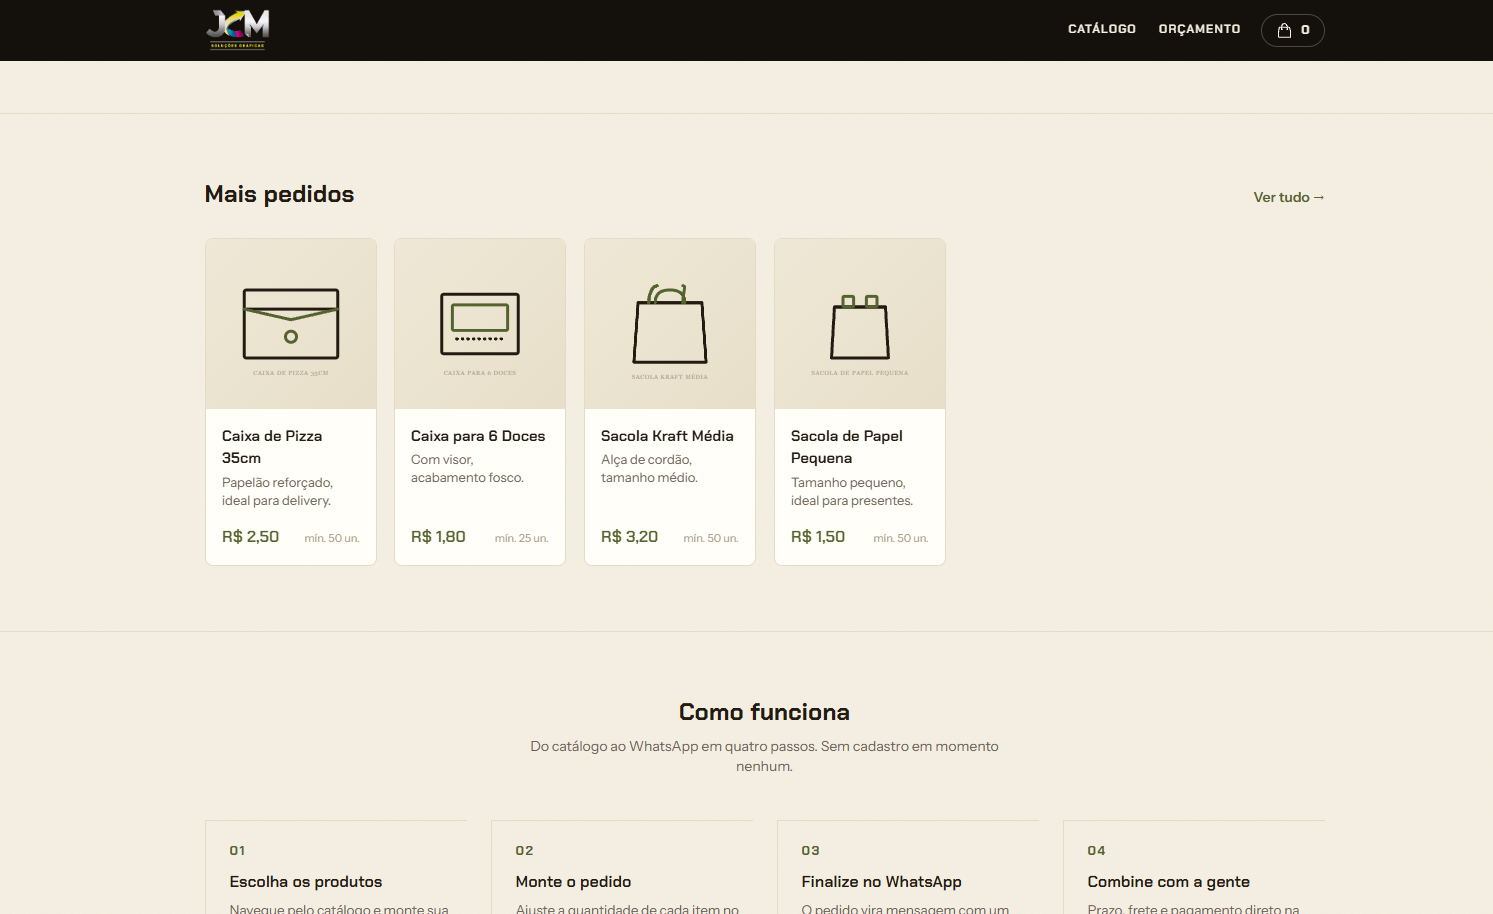
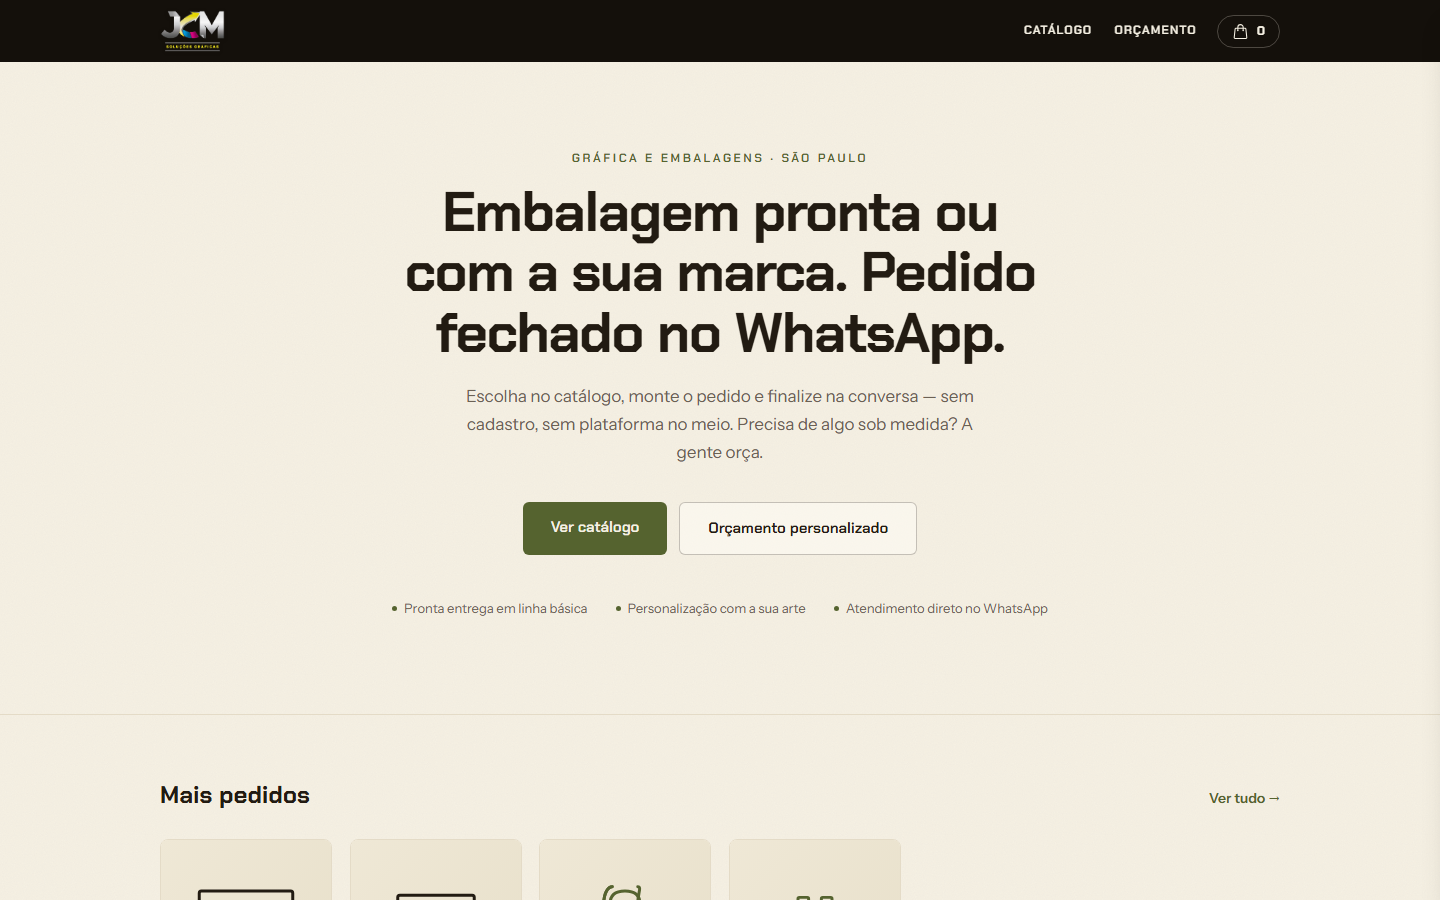
feat(selected-work): troca o Mirante pelo Sizr e corrige o print do JCM
O Mirante era o card mais fraco da lista: demo/template, sem cliente, e o
3D dele nao mostrava nada que o Sizr nao mostre melhor. O Sizr herda o
slot (tambem e three.js + R3F) como produto proprio no ar, com selo PROD.

A copy do Sizr puxa pelo configurador parametrico, pelas faixas de
producao e pelo pedido codificado na URL, nao pelo pedido no WhatsApp --
senao ecoaria com o JCM, que ja fecha por WhatsApp.

O print do JCM abria numa faixa bege vazia, logo abaixo do hero, e por
isso o card mostrava a parte mais morta do site. Recapturado a 1440x900
pegando a headline e os dois CTAs.

Screenshots do Mirante apagados. O Sizr entra sem shot mobile: as
capturas headless em largura estreita saem com o layout cortado, entao
o painel cai no fallback do print desktop ate ter um de verdade.

Claude-Session: https://claude.ai/code/session_01DNWXKj1Aw42HkjKEt62Lkv

diff --git a/components/SelectedWork.tsx b/components/SelectedWork.tsx
@@ -142,20 +142,19 @@ const projects: Project[] = [
     terminalHeader: true,
   },
   {
-    slug: "mirante",
-    title: "Mirante Skateshop",
-    year: "2025",
+    slug: "sizr",
+    title: "Sizr",
+    year: "2026",
     description:
-      "Landing page demo para skateshop real — modelo 3D interativo de skate com parallax de mouse, animações scroll-triggered e estética street culture.",
-    stack: ["React 19", "Three.js", "R3F", "Framer Motion", "Vite"],
+      "Configurador 3D paramétrico para quem vende sob medida — o cliente arrasta as dimensões e vê a peça girando em tempo real, dentro das faixas de produção que a loja define. Três geometrias (caixa, plano, cilindro) cobrem de embalagem a vidro, painel e bancada; o volume, a área e o preço saem da própria fórmula, sem código por tipo de produto. O pedido inteiro fica codificado na URL, então o link reabre exatamente o que o cliente montou. O mesmo build estático serve a landing e um modo embed que roda por iframe no site de terceiros. Sem backend, sem banco.",
+    stack: ["React 19", "Three.js", "R3F", "TypeScript", "Vite"],
     outcome:
-      "Skate 3D interativo com parallax de mouse e animações scroll-triggered.",
-    badge: "Demo — template, não é cliente real",
-    badgeShort: "DEMO",
-    href: "https://mirante-skateshop.vercel.app",
-    repo: "https://github.com/Bielcx/mirante-skateshop",
-    screenshotSrc: "/screenshots/mirante.png",
-    screenshotMobileSrc: "/screenshots/mirante-mobile.png",
+      "Configurador 3D paramétrico embedável por iframe — pedido codificado na URL, build estático sem backend.",
+    badge: "Em produção · produto próprio",
+    badgeShort: "PROD",
+    href: "https://sizr-three.vercel.app",
+    repo: "https://github.com/Bielcx/sizr",
+    screenshotSrc: "/screenshots/sizr.png",
     terminalHeader: true,
   },
   {
